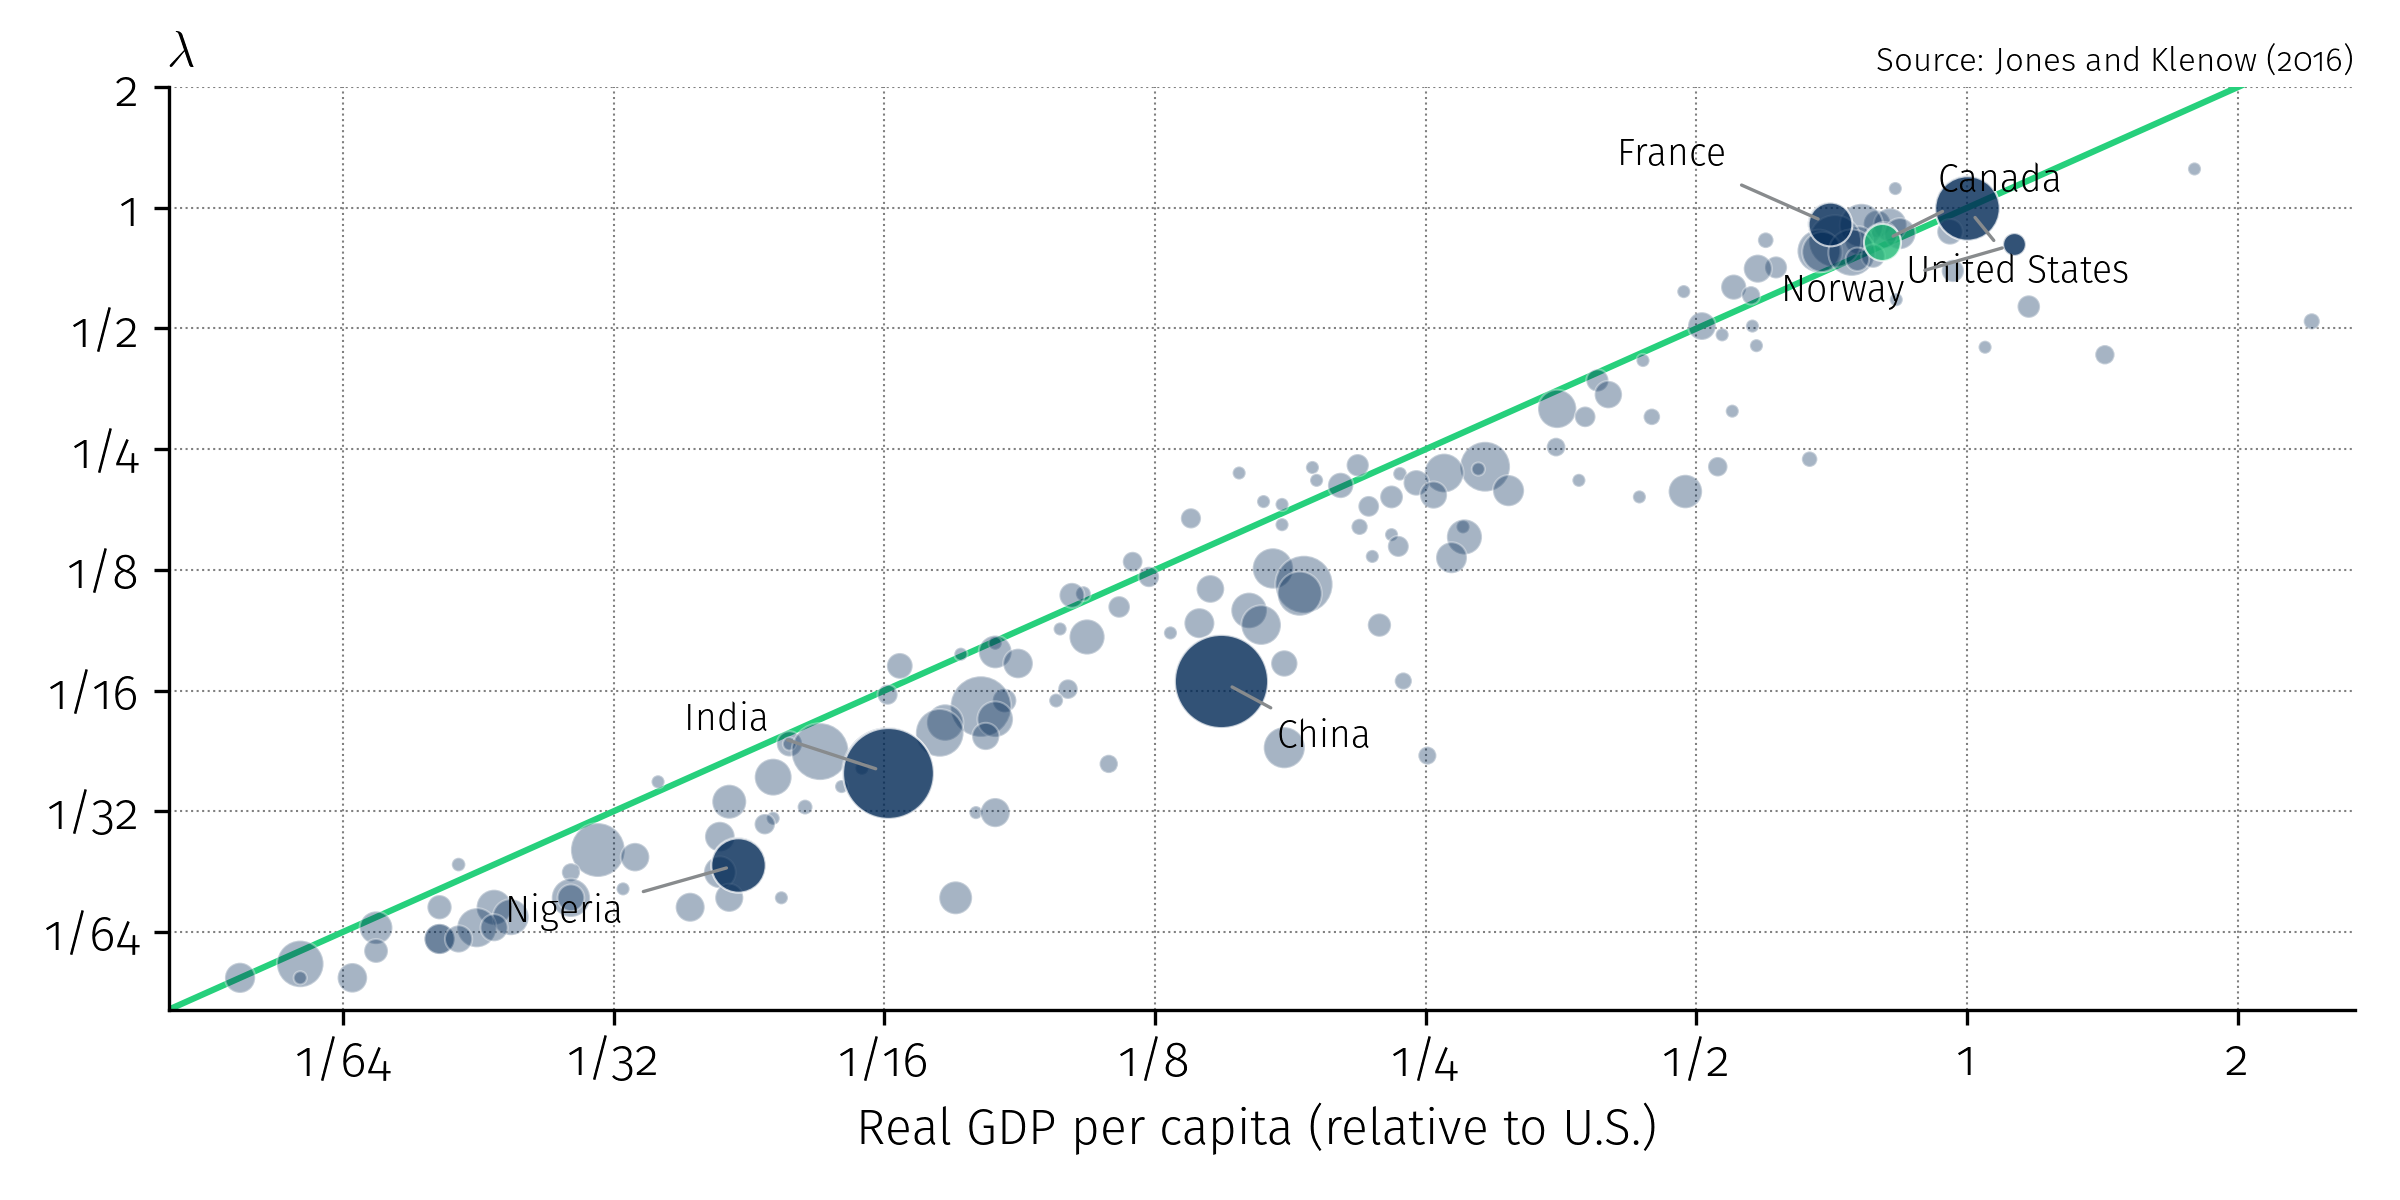
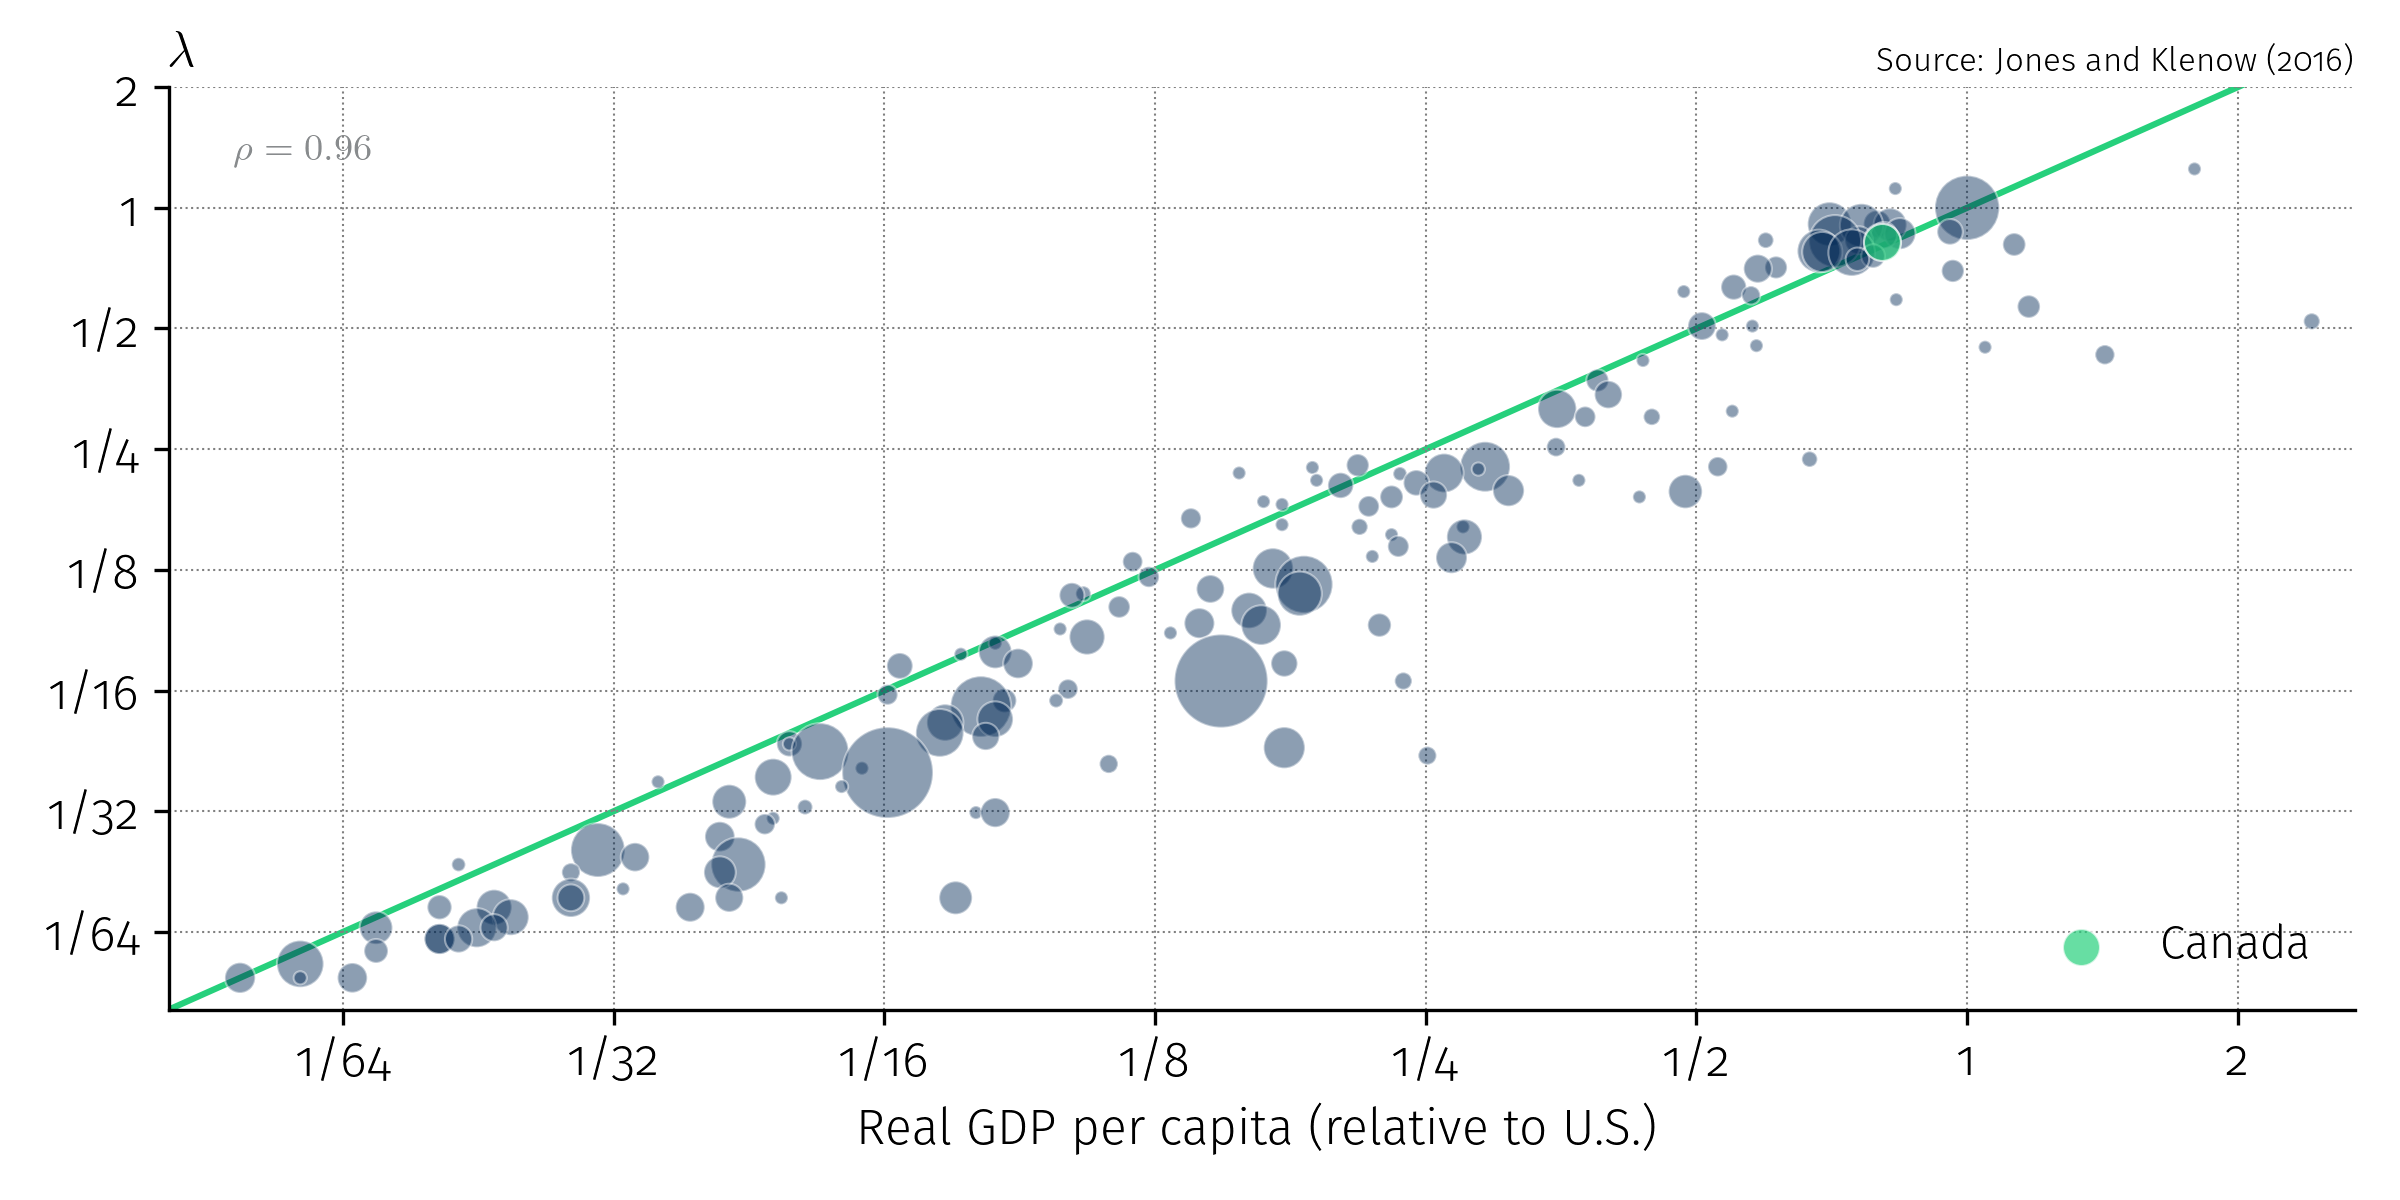
Improve HDI and Beyond GDP scatter plots: add regression line, correlation coefficients, Canada legend
- Add green regression line (behind points) to HDI vs GDP per capita
- Add ρ correlation coefficient (small font, upper-left) to both scatter plots
- Highlight Canada with legend instead of inline annotation
- Increase dot opacity (0.35 → 0.45) for better visibility
- Start HDI x-axis at $1,000; remove individual country labels from both plots

diff --git a/Slides/S1/figures_s1.py b/Slides/S1/figures_s1.py
@@ -1602,35 +1602,34 @@ def hdi_vs_gdp_per_capita():
     sizes = sizes.clip(lower=15)
 
     ax.scatter(df.ny_gdp_pcap_pp_kd, df.hdi, s=sizes,
-               color=palette[0], alpha=0.35, edgecolors='white',
+               color=palette[0], alpha=0.45, edgecolors='white',
                linewidth=0.5)
 
-    # Highlight specific countries
-    for iso, name in highlights.items():
-        row = df[df.code == iso]
-        if len(row) == 0:
-            continue
-        row = row.iloc[0]
-        sz = max(800 * row['pop_share'] ** 0.5, 15)
-        color = palette[1] if iso == 'CAN' else palette[0]
-        ax.scatter(row.ny_gdp_pcap_pp_kd, row.hdi, s=sz,
-                   color=color, alpha=0.7, edgecolors='white', linewidth=0.5,
-                   zorder=5)
-        offsets = {
-            'USA': (14, -20), 'CAN': (-50, -20), 'CHN': (14, -16),
-            'IND': (-42, -16), 'BRA': (-42, 10), 'NGA': (14, -14),
-            'NOR': (14, -16), 'JPN': (-42, 14),
-        }
-        ox, oy = offsets.get(iso, (14, 8))
-        ax.annotate(name, xy=(row.ny_gdp_pcap_pp_kd, row.hdi),
-                    xytext=(ox, oy), textcoords='offset points',
-                    fontsize=9, fontweight='bold', color='black',
-                    arrowprops=dict(arrowstyle='-', color=palette[7],
-                                    lw=0.8, shrinkB=3),
-                    zorder=10)
+    # Regression line (log GDP vs HDI)
+    log_x = np.log(df.ny_gdp_pcap_pp_kd.values)
+    y_vals = df.hdi.values
+    slope, intercept = np.polyfit(log_x, y_vals, 1)
+    x_line = np.linspace(np.log(1000), np.log(150000), 200)
+    ax.plot(np.exp(x_line), slope * x_line + intercept,
+            color=palette[1], linewidth=1.5, zorder=1)
+
+    # Correlation coefficient
+    corr = np.corrcoef(log_x, y_vals)[0, 1]
+    ax.text(0.03, 0.95, f'$\\rho = {corr:.2f}$', fontsize=9, color=palette[7],
+            ha='left', va='top', transform=ax.transAxes)
+
+    # Highlight Canada with accent color
+    can = df[df.code == 'CAN']
+    if len(can) > 0:
+        can = can.iloc[0]
+        sz = max(800 * can['pop_share'] ** 0.5, 15)
+        ax.scatter(can.ny_gdp_pcap_pp_kd, can.hdi, s=sz,
+                   color=palette[1], alpha=0.7, edgecolors='white',
+                   linewidth=0.5, zorder=5, label='Canada')
+    ax.legend(loc='lower right', frameon=False, fontsize=11)
 
     ax.set_xscale('log')
-    ax.set_xlim(800, 150000)
+    ax.set_xlim(1000, 150000)
     ax.set_xticks([1000, 10000, 100000])
     ax.set_xticklabels([r'\$1,000', r'\$10,000', r'\$100,000'], fontsize=12)
     ax.set_xlabel('Real GDP per capita (PPP)', fontsize=12)
@@ -1701,40 +1700,29 @@ def beyond_gdp():
 
     # 45-degree line
     ax.plot([1 / 100, 2.7], [1 / 100, 2.7], color=palette[1],
-            linestyle='-', linewidth=1.5, zorder=2)
+            linestyle='-', linewidth=1.5, zorder=1)
 
     # Bubble sizes proportional to population
     max_pop = df['pop'].max()
     sizes = 500 * (df['pop'] / max_pop) ** 0.5
     sizes = sizes.clip(lower=10)
 
-    ax.scatter(df.y, df.welfare, s=sizes, color=palette[0], alpha=0.35,
+    ax.scatter(df.y, df.welfare, s=sizes, color=palette[0], alpha=0.45,
                edgecolors='white', linewidth=0.5, zorder=3)
 
-    # Label select countries
-    highlights = {
-        'United States': (-14, -18),
-        'France': (-50, 14),
-        'Canada': (14, 12),
-        'China': (14, -16),
-        'India': (-48, 10),
-        'Nigeria': (-55, -14),
-        'Norway': (-55, -14),
-    }
-    for _, row in df.iterrows():
-        name = str(row['country']).strip()
-        if name in highlights:
-            ox, oy = highlights[name]
-            sz = max(500 * (row['pop'] / max_pop) ** 0.5, 10)
-            color = palette[1] if name == 'Canada' else palette[0]
-            ax.scatter(row.y, row.welfare, s=sz, color=color, alpha=0.7,
-                       edgecolors='white', linewidth=0.5, zorder=5)
-            ax.annotate(name, xy=(row.y, row.welfare),
-                        xytext=(ox, oy), textcoords='offset points',
-                        fontsize=9, fontweight='bold', color='black',
-                        arrowprops=dict(arrowstyle='-', color=palette[7],
-                                        lw=0.8, shrinkB=3),
-                        zorder=10)
+    # Correlation coefficient (log-log)
+    corr = np.corrcoef(np.log(df.y.values), np.log(df.welfare.values))[0, 1]
+    ax.text(0.03, 0.95, f'$\\rho = {corr:.2f}$', fontsize=9, color=palette[7],
+            ha='left', va='top', transform=ax.transAxes)
+
+    # Highlight Canada with accent color
+    can = df[df['country'].str.strip() == 'Canada']
+    if len(can) > 0:
+        can = can.iloc[0]
+        sz = max(500 * (can['pop'] / max_pop) ** 0.5, 10)
+        ax.scatter(can.y, can.welfare, s=sz, color=palette[1], alpha=0.7,
+                   edgecolors='white', linewidth=0.5, zorder=5, label='Canada')
+    ax.legend(loc='lower right', frameon=False, fontsize=11)
 
     ax.set_xscale('log', base=2)
     ax.set_xlim(1 / 100, 2.7)
